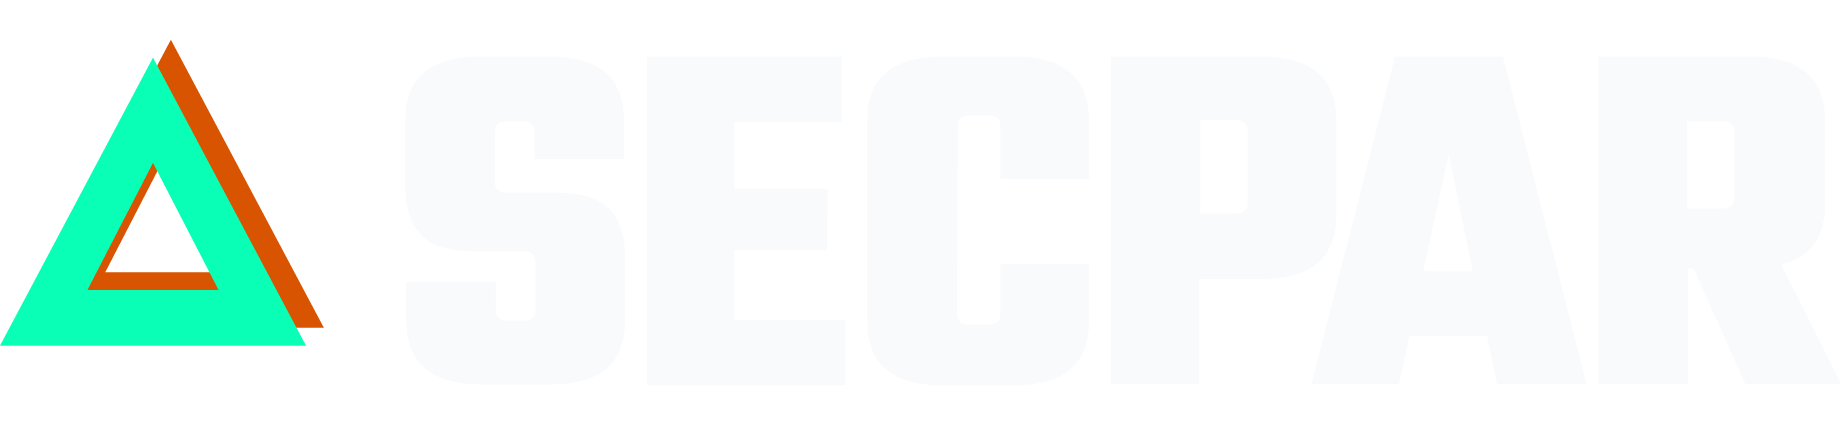
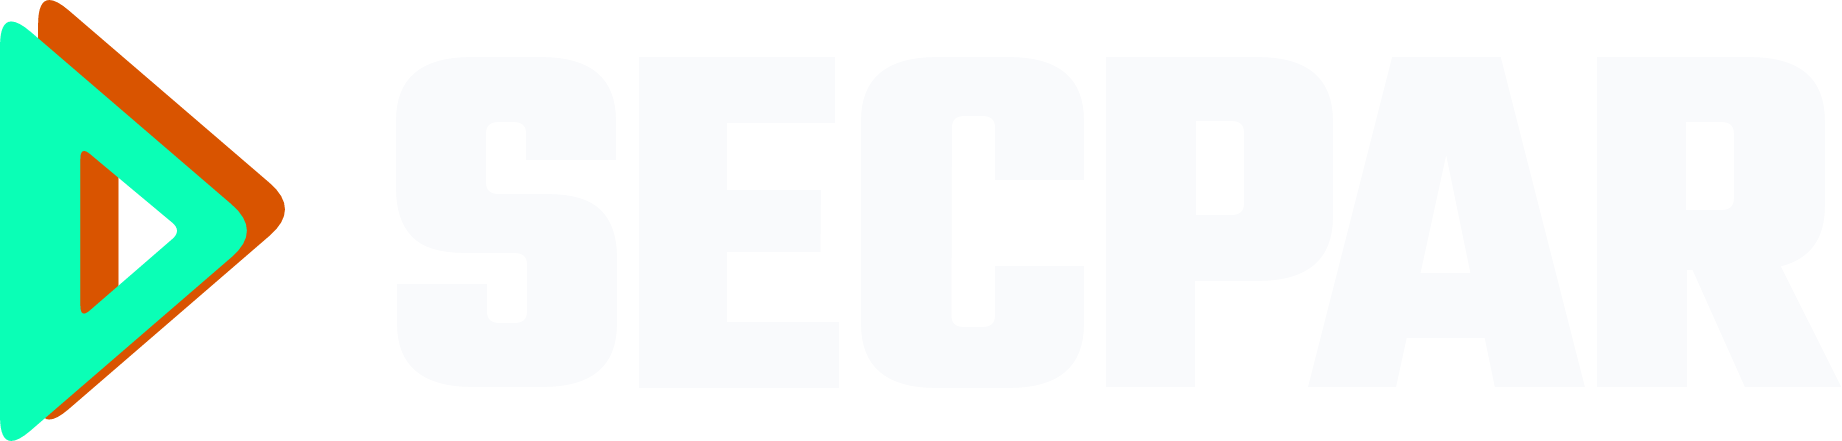
Match Parsec symbol proportions with a rounded right-facing triangle

Changed region(s): [[0.0, 0.0, 0.1857, 1.0]]

diff --git a/assets/branding/README.md b/assets/branding/README.md
@@ -2,7 +2,7 @@
 
 The letterforms are sourced from the outlined wordmark embedded in https://parsec.app/ (retrieved 2026-11-04), matching the supplied reference. The full original font family has not been verified. Website CSS declares Rubik, Barlow, Fira Mono and Inter; those are not treated as identification of the logo typeface.
 
-SECPAR rearranges the original six letterforms, with adjusted kerning. The symbol is a triangular ribbon. Its colours are RGB complements of the reference: pink #F50049 becomes mint #0AFFB6; blue #26ABFF becomes orange #D95400. Mint is in front and orange behind. The companion apps remain independently named Secpar.
+SECPAR rearranges the original six letterforms, with adjusted kerning. The symbol is a rounded, right-facing triangular ribbon. Its combined symbol bounds are 285 × 441 units, matching the supplied Parsec symbol footprint and direction. Its colours are RGB complements of the reference: pink #F50049 becomes mint #0AFFB6; blue #26ABFF becomes orange #D95400. Mint is in front and orange behind. The companion apps remain independently named Secpar.
 
 SecparWordmark.otf is a six-letter logo font assembled from these outlines, mapping S/E/C/P/A/R and lowercase equivalents. It is not a full alphabet or the original Parsec font file. Use the SVG wordmark for the exact final spacing. Interface body text remains the platform font.
 
